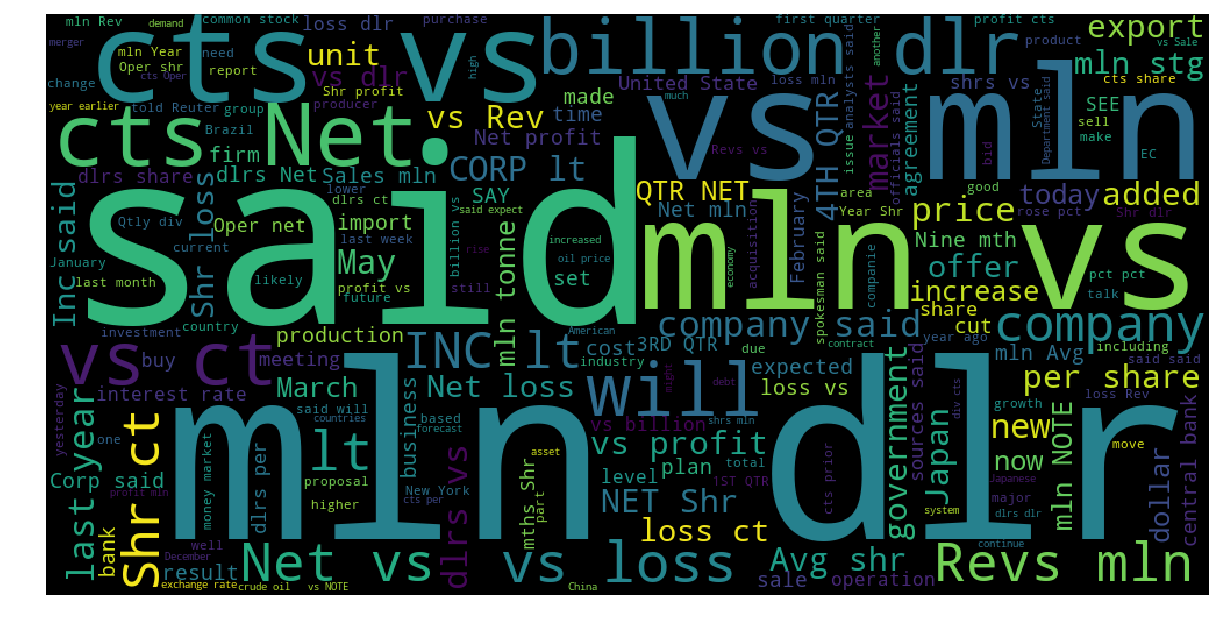
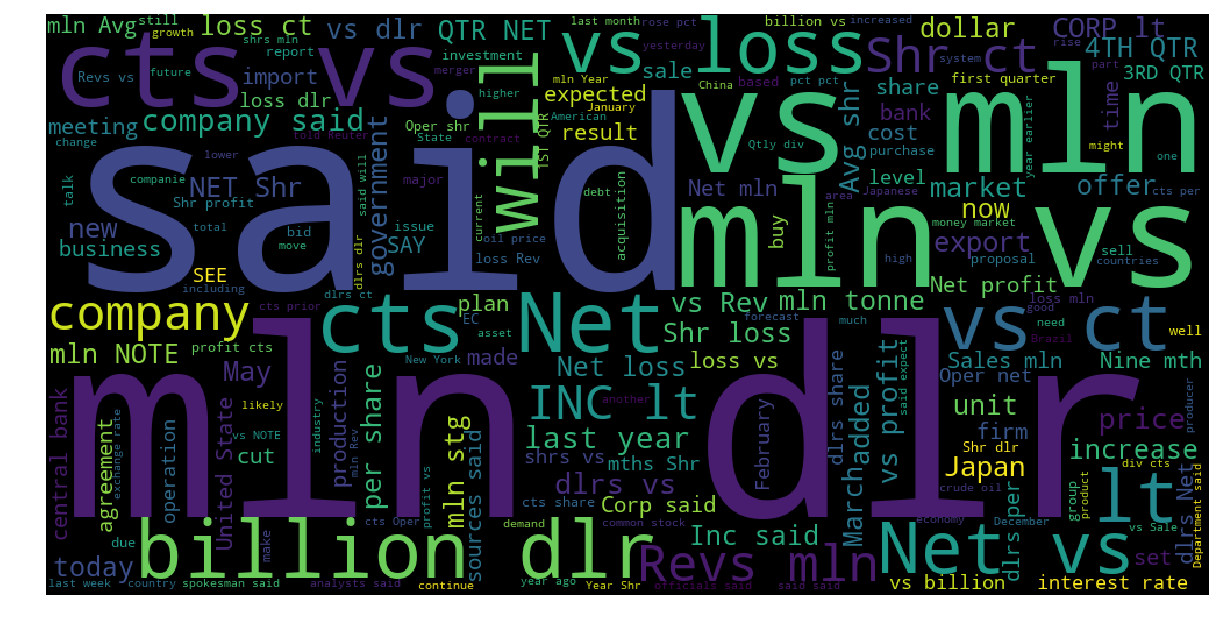
Lexical

diff --git a/Anu_Friday/NLTK/NLTK 2.py b/Anu_Friday/NLTK/NLTK 2.py
@@ -16,32 +16,32 @@ class col:
     UNDERLINE = '\033[4m'
 
 
-# def printFD(matrix):
-#     s = [[str(e) for e in row] for row in matrix]
-#     lens = [max(map(len, col)) for col in zip(*s)]
-#     fmt = '\t'.join('{{:{}}}'.format(x) for x in lens)
-#     table = [fmt.format(*row) for row in s]
-#     print('\n'.join(table))
+def printFD(matrix):
+    s = [[str(e) for e in row] for row in matrix]
+    lens = [max(map(len, col)) for col in zip(*s)]
+    fmt = '\t'.join('{{:{}}}'.format(x) for x in lens)
+    table = [fmt.format(*row) for row in s]
+    print('\n'.join(table))
 
 
-# print(col.HEADER+"\nExploring Reuters Corpus\n~~~~~~~~~~~~~~~~~~~~~~~~~\n"+col.ENDC)
+print(col.HEADER+"\nExploring Reuters Corpus\n~~~~~~~~~~~~~~~~~~~~~~~~~\n"+col.ENDC)
 
-# fdist = FreqDist(word
-#                  for word in RegexpTokenizer(r'\w+').tokenize(" ".join(reuters.words())))
-# matrix = fdist.most_common(20)
-# fdist.plot(30, cumulative=False)
-# print(col.OKGREEN+"Frequency Distribution of top 20 words:\n"+col.ENDC)
-# printFD(matrix)
+fdist = FreqDist(word
+                 for word in RegexpTokenizer(r'\w+').tokenize(" ".join(reuters.words())))
+matrix = fdist.most_common(20)
+fdist.plot(30, cumulative=False)
+print(col.OKGREEN+"Frequency Distribution of top 20 words:\n"+col.ENDC)
+printFD(matrix)
 
-# unique_string = (" ").join(reuters.words())
+unique_string = (" ").join(reuters.words())
 
-# wordcloud = WordCloud(width=1000, height=500).generate(unique_string)
-# plt.figure(figsize=(15, 8))
-# plt.imshow(wordcloud)
-# plt.axis("off")
-# plt.savefig("your_file_name"+".png", bbox_inches='tight')
-# plt.show()
-# plt.close()
+wordcloud = WordCloud(width=1000, height=500).generate(unique_string)
+plt.figure(figsize=(15, 8))
+plt.imshow(wordcloud)
+plt.axis("off")
+plt.savefig("your_file_name"+".png", bbox_inches='tight')
+plt.show()
+plt.close()
 
 print(col.OKGREEN+"\nFrequency Distribution of top 20 words (2 Letter):\n"+col.ENDC)
 

diff --git a/Anu_Friday/FridayTokenize/NLTK_token.py b/Anu_Friday/FridayTokenize/NLTK_token.py
@@ -1,18 +1,18 @@
 from nltk.tokenize import TreebankWordTokenizer
 
 print("ARABIC\n")
-arabic = open("arabic.txt", "r", encoding="utf-8").read()
+arabic = open("FridayTokenize/arabic.txt", "r", encoding="utf-8").read()
 print("Data: ", arabic, "\n\nTokenized: ",
       TreebankWordTokenizer().tokenize(arabic))
 
 
 print("\nJAPANESE\n")
-arabic = open("japanese.txt", "r", encoding="utf-8").read()
+arabic = open("FridayTokenize/japanese.txt", "r", encoding="utf-8").read()
 print("Data: ", arabic, "\n\nTokenized: ",
       TreebankWordTokenizer().tokenize(arabic))
 
 
 print("\nCHINESE\n")
-arabic = open("chinese.txt", "r", encoding="utf-8").read()
+arabic = open("FridayTokenize/chinese.txt", "r", encoding="utf-8").read()
 print("Data: ", arabic, "\n\nTokenized: ",
       TreebankWordTokenizer().tokenize(arabic))

diff --git a/Anu_Friday/NLTK Lexical/NLTKpipeline.py b/Anu_Friday/NLTK Lexical/NLTKpipeline.py
@@ -1,0 +1,10 @@
+import nltk
+
+texts = ["""Thanks to a hands-on guide introducing programming fundamentals alongside topics in computational linguistics, plus comprehensive API documentation, NLTK is suitable for linguists, engineers, students, educators, researchers, and industry users alike. NLTK is available for Windows, Mac OS X, and Linux. Best of all, NLTK is a free, open source, community-driven project."""]
+
+for text in texts:
+    sentences = nltk.sent_tokenize(text)
+    for sentence in sentences:
+        words = nltk.word_tokenize(sentence)
+        tagged_words = nltk.pos_tag(words)
+        print(tagged_words)

diff --git a/Anu_Friday/NLTK/NLTK 1.py b/Anu_Friday/NLTK/NLTK 1.py
@@ -17,7 +17,7 @@ class col:
 print(col.HEADER+"\nExploring Brown Corpus\n~~~~~~~~~~~~~~~~~~~~~~~~~\n"+col.ENDC)
 print(col.OKGREEN+"Categories : "+col.ENDC)
 print(brown.categories())
-print(col.BOLD+"\nChoosing category \"Cotton\": \n"+col.ENDC)
+print(col.BOLD+"\nChoosing category \"News\": \n"+col.ENDC)
 print(col.OKGREEN+"\nText (First 200 words): "+col.ENDC)
 print(" ".join(brown.words(categories="news")[:200]))
 

diff --git a/Anu_Friday/NLTK Lexical/twitterTokenize.py b/Anu_Friday/NLTK Lexical/twitterTokenize.py
@@ -1,0 +1,6 @@
+import nltk
+from nltk.tokenize import TweetTokenizer
+
+text = 'Someone was using a fake email to impersonate me to get free stuff from companies. This is his response.“I googled ways to get free stuff and this popped up”Might want to google “fraud” and “infringing identity” next!'
+twtkn = TweetTokenizer()
+print(twtkn.tokenize(text))

diff --git a/Anu_Friday/NLTK Lexical/CMUwordList.py b/Anu_Friday/NLTK Lexical/CMUwordList.py
@@ -1,0 +1,7 @@
+from nltk.corpus import cmudict
+
+entries = cmudict.entries()
+print("Length of entries:",len(entries),"\n")
+for entry in entries[1000:1025]:
+    print("CMU word list", entry)
+

diff --git a/Anu_Friday/NLTK Lexical/wordnet.py b/Anu_Friday/NLTK Lexical/wordnet.py
@@ -1,0 +1,5 @@
+from nltk.corpus import wordnet as wn
+
+print(wn.synsets('motorcar'))
+
+print(wn.synset('car.n.01').lemma_names())

diff --git a/Anu_Friday/NLTK Lexical/stopwords.py b/Anu_Friday/NLTK Lexical/stopwords.py
@@ -1,0 +1,3 @@
+from nltk.corpus import stopwords
+sw = stopwords.words('english')
+print(sw)
